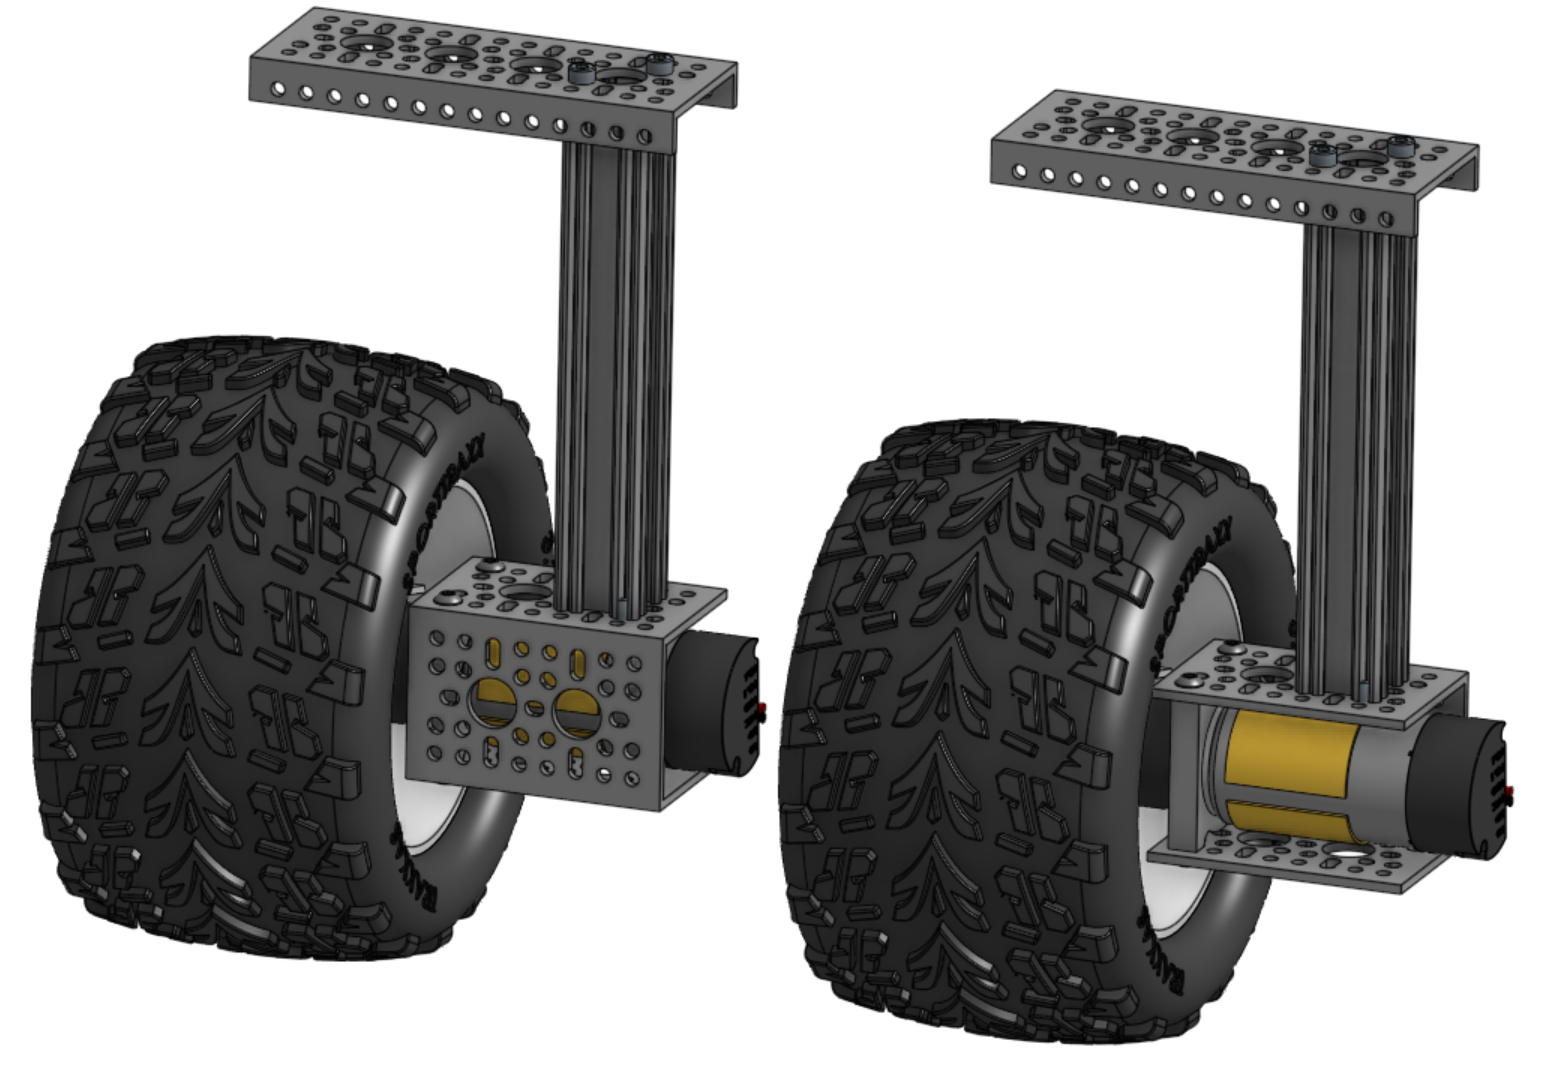
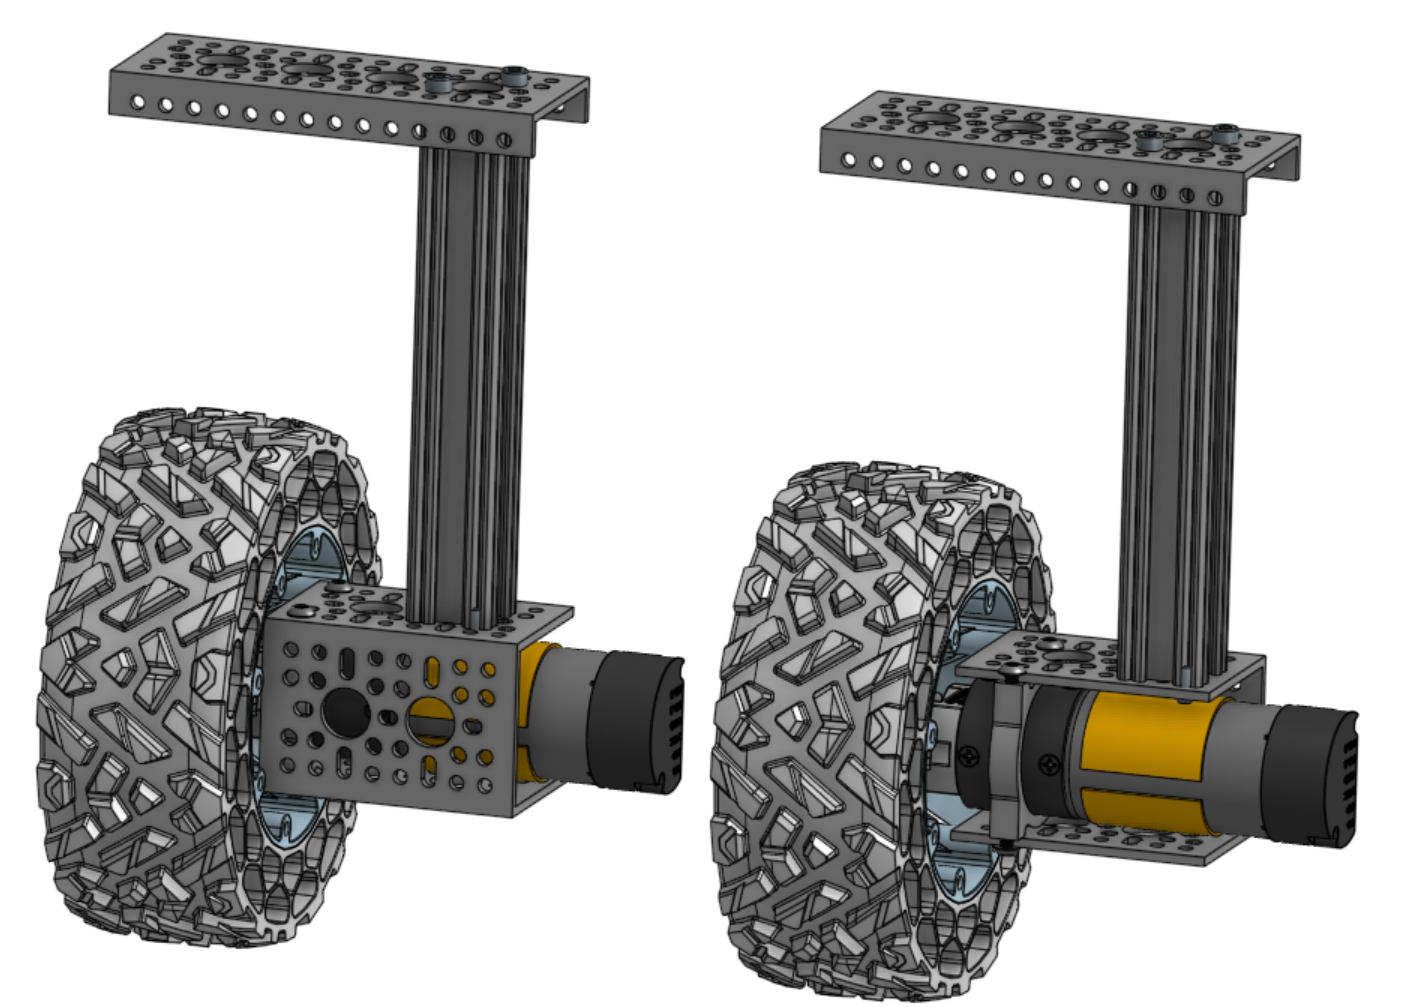
Update the build instructions to default to the wasteland wheels, update screws

diff --git a/mechanical/wheel_assembly/README.md b/mechanical/wheel_assembly/README.md
@@ -2,34 +2,18 @@
 
 The wheel assembly attaches the wheels to the motors and mounts the motors to the rest of the rocker-bogie suspension system that makes up the robot chassis. These are relatively simple to assemble.
 
-![Wheels](images/wheels.png)
+<img src="images/wheels.png" width=900/>
 
-## Features
+## [DollarHobbyz Traxxas Wheels only] Drilling the wheels
 
-* The flexible wheels allow for high traction as they deform around objects, improving climbing performance
-* Drive motors chosen to handle the high torque that the system sees, achieving both speed and climbing performance
+If you bought the DollarHobbyz Wheels, you will need to drill some holes through the plastic to allow attaching them to the hubs that fit onto the motor axes. If you have the smaller or bigger Wasteland Wheels from GoBilda, you can skip this step.
 
-### Mechanical Interface/Attachments to Rover
+The wheel is normally meant to be mounted using one bolt through the middle of the rim. This will not work well in our case as the rover sees very high torque at the wheel and the one-bolt system would be difficult to attach to any part of our system without the wheel slipping. To attach more firmly, we will drill two holes on either side of the original hole where we will mount the motor hub clamp
 
-* The 4 corner assemblies connect directly to the servo blocks on the rocker-bogies.
-* The 2 middle drive wheels attach directly to the rocker bogie
+Drill at least 2 holes in the wheels such that they can be mounted to the [Hyper Hub](https://www.gobilda.com/1310-series-hyper-hub-8mm-rex-bore/) that attaches to the motor shaft. You'll want to make sure the holes you drill are centered, otherwise the wheel will wobble while driving. Once you've found where to drill the holes, consider using a center punch or small drill bit first before drilling to ensure your drill bit doesn't start 'wandering' before it locks into position. The distance from each hole center to the center of the wheel is  
+$$\sqrt(8^2 + 8^2) \approx 11.3mm$$
 
-## Machining/Fabrication
-
-**NOTE:** While the following approach is valid for v2, it is not ideal as it requires drilling. There may be better ways to attach to these wheels (or other wheels) without drilling. The only requirement is that the middle of the corner wheels aligns with the axis of rotation of the servo output shaft.
-
-**NOTE**: These instructions are a work in progress. Please ask for assistance on Slack.
-
-
-| item                              | ref | qty |                                                                 img |
-| --------------------------------- | --- | --- | ------------------------------------------------------------------: |
-| wheels                            | S30 | 6   | <img src="../../images/components/structural/S30.png" height="100"> |
-| hand drill or drill press         | D3  |     |       <img src="../../images/components/tools/D3.png" height="100"> |
-| center punch or starter drill bit | D7  |     |       <img src="../../images/components/tools/D7.png" height="100"> |
-
-> The wheel is normally meant to be mounted using one bolt through the middle of the rim. This will not work well in our case as the rover sees very high torque at the wheel and the one-bolt system would be difficult to attach to any part of our system without the wheel slipping. To attach more firmly, we will drill two holes on either side of the original hole where we will mount the motor hub clamp as shown in Figure 1
-
-Drill at least 2 holes in the wheels such that they can be mounted to the [Sonic Hub](https://www.gobilda.com/1309-series-sonic-hub-8mm-rex-bore/) that attaches to the motor shaft. 
+<img src="https://cdn11.bigcommerce.com/s-x56mtydx1w/images/stencil/original/products/1228/11873/1310-0016-4008-Schematic__25024.1715800139.png?c=1" height=500>
 
 ## Assembly
 
@@ -47,8 +31,9 @@ Attach the clamping mount and REX bore hub to the motor. We will adjust their po
 
 The result excluding wiring should look as follows:
 
-| ![corner assembly](images/corner_side.png) | ![corner mirroring](images/corner_mirror.png) |
-| ------------------------------------------ | --------------------------------------------- |
+| side view without wiring                       | one of two pairs of corner assemblies            |
+| ---------------------------------------------- | ------------------------------------------------ |
+| <img src="images/corner_side.png" height=400/> | <img src="images/corner_mirror.png" height=400/> |
 
 Note that the sides of the rover are mirrored and so you'll be building 2 pairs of similar but not exactly the same subassemblies, as shown in the right image above.
 

diff --git a/parts_list/extra_parts.md b/parts_list/extra_parts.md
@@ -71,15 +71,15 @@ You will want threadlocker for several screws so that they don't unscrew themsel
 ## Electrical
 
 * Voltage Regulators:
-  * **1 X** 5V Regulator: [Pololu] (https://www.pololu.com/product/2881)
+  * **1 X** 5V Regulator: [Pololu](https://www.pololu.com/product/2881)
   * **1 X** 12V Regulator: [Pololu](https://www.pololu.com/product/2855)
 * **1 X** PCA9685 corner: [Mouser](https://www.mouser.com/ProductDetail/Adafruit/815?qs=GURawfaeGuCGKbWyy9179Q%3D%3D)
 * **3 X** Roboclaw 2x7A Motor Controller [Basic Micro](https://www.basicmicro.com/Roboclaw-2x7A-Motor-Controller_p_55.html)
 * **1 X** Power Measurement Unit INA260: Sold out on DigiKey, possible replacements are on [Adafruit](https://www.adafruit.com/product/4226?gclid=CjwKCAjw5dqgBhBNEiwA7PryaLOm_zC9GhlzRH1NwN4bSRwDg84sIhSh3LEqTOrIvQ3j_kRBscTAYhoCBOQQAvD_BwE)
 * **1 X** PCA9685 corner motor driver [Mouser](https://www.mouser.com/ProductDetail/Adafruit/815?qs=GURawfaeGuCGKbWyy9179Q%3D%3D)
-* DC power meter: [Amazon](https://www.amazon.com/gp/product/B017FSED9I/). This LCD display reads out current, voltage, power, and energy, and can be put on the back where the rectangular hole is in the laser cut cover. 
+* DC power meter: [Amazon](https://www.amazon.com/gp/product/B017FSED9I/). This LCD display reads out current, voltage, power, and energy, and can be put on the back where the rectangular hole is in the laser cut cover.
 * batteries: many options available here. We recommend getting LiPo batteries. You'll need a battery that can provide over 14V(*), so a 4s battery works well. You can get batteries with various mAh ratings (how many milliAmperes the battery can output for 1 hour). We recommend any option over 4000mAh. Higher capacity comes at a higher cost. You can also get more than one battery and swap them out. The rover can carry them as well.
-  * Zeee sells many options [on Amazon](https://www.amazon.com/stores/page/25B7018D-26CC-4E43-BC6D-EFAF737D8F5E?ingress=2&visitId=1b4115fa-2240-424d-a0e6-a466830819ce&ref_=ast_bln) 
+  * Zeee sells many options [on Amazon](https://www.amazon.com/stores/page/25B7018D-26CC-4E43-BC6D-EFAF737D8F5E?ingress=2&visitId=1b4115fa-2240-424d-a0e6-a466830819ce&ref_=ast_bln)
   * You'll also need a charger for the battery. Make sure it can support the battery you bought. For the Zeee options, [this model from Amazon](https://www.amazon.com/Hobby-Fans-Professional-Balance-Discharger/dp/B09XC91BWJ/ref=sr_1_6?keywords=LiPo+charger&qid=1690484744&sr=8-6) will work.
   * Consider getting a fireproof battery bag. LiPo batteries are extremely flammable/explosive and a fire caused by a battery is extremely difficult to put out.
   * You'll also need a way to connect your battery to the PCB via a XT30 connector (MH-FC) which depends on the battery you get. Often these come with the charger for the battery
@@ -90,7 +90,11 @@ You will want threadlocker for several screws so that they don't unscrew themsel
 ## Different wheels
 
 * The wheels we previously included as the default from [DollarHobbyz](https://www.dollarhobbyz.com/collections/all/products/traxxas-2-talon-tires-gemini-black-chrome-wheels-5374x) are $34.95 per pair of two for a total of $104.85 (excl. shipping), saving ~$135 compared to the default Wasteland wheels. They are a perfectly fine choice but require some drilling to fit to the motor hubs.
-* Gobilda also sells a larger version of the [Wasteland Wheel at 192mm diameter](https://www.gobilda.com/wasteland-wheel-192mm-diameter-72mm-width/). This adds $90 total compared to the default Wasteland wheels. No drilling is required.
+* Gobilda also sells a larger version of the [Wasteland Wheel at 192mm diameter](https://www.gobilda.com/wasteland-wheel-192mm-diameter-72mm-width/). This adds $90 total compared to the default Wasteland wheels. No drilling is required. Those wheels are bigger and wider and look like this:
+
+| smaller Wasteland wheels | bigger Wasteland wheels |
+| --- | --- |
+| <img src="smaller_wasteland.png" width=400/> | <img src="bigger_wasteland.png" width=400/> |
 
 There is a software parameter where you can easily modify the size of the wheels to account for speed differences.
 

diff --git a/parts_list/screws.md b/parts_list/screws.md
@@ -1,13 +1,14 @@
-## Screws tally
+# Screws tally
 
 All of the below are included in the [parts list](parts_list/README.md). This document is for maintenance only.
 
-### M4
+## M4
 
 | subassembly  | nb  | length           | type   | purpose                        | multiplier | total |
 | ------------ | --- | ---------------- | ------ | ------------------------------ | ---------- | ----- |
 | wheel        | 4   | 10               | either | motor - channel                | 6          | 24    |
 | wheel        | 3   | 10               | button | bracket - vert. extrusion      | 6          | 18    |
+| wheel        | 3   | **10** or 12     | socket | wheel - motor axis clamp       | 6          | 18    |
 | corner       | 3   | 10               | button | vert. extrusion - low channel  | 4          | 12    |
 | corner       | 3   | 10               | button | low channel - servo shaft      | 4          | 12    |
 | corner       | 3   | 10               | either | servo bracket - rocker         | 4          | 12    |
@@ -42,7 +43,7 @@ Total per category and length:
 | button | [10](https://www.gobilda.com/2802-series-zinc-plated-steel-button-head-screw-m4-x-0-7mm-10mm-length-25-pack/) | 70 (+48)     | 3                     |
 | button | [16](https://www.gobilda.com/2802-series-zinc-plated-steel-button-head-screw-m4-x-0-7mm-16mm-length-25-pack/) | 34           | 2                     |
 | socket | [8](https://www.gobilda.com/2800-series-zinc-plated-steel-socket-head-screw-m4-x-0-7mm-8mm-length-25-pack/)   | 30 (+8)      | 2                     |
-| socket | [10](https://www.gobilda.com/2800-series-zinc-plated-steel-socket-head-screw-m4-x-0-7mm-10mm-length-25-pack/) | 24 (+48)     | 3                     |
+| socket | [10](https://www.gobilda.com/2800-series-zinc-plated-steel-socket-head-screw-m4-x-0-7mm-10mm-length-25-pack/) | 42 (+48)     | 4                     |
 | socket | [12](https://www.gobilda.com/2800-series-zinc-plated-steel-socket-head-screw-m4-x-0-7mm-12mm-length-25-pack/) | 20           | 1                     |
 | socket | [16](https://www.gobilda.com/2800-series-zinc-plated-steel-socket-head-screw-m4-x-0-7mm-16mm-length-25-pack/) | 28 (+8)      | 2                     |
 | socket | [20](https://www.gobilda.com/2800-series-zinc-plated-steel-socket-head-screw-m4-x-0-7mm-20mm-length-25-pack/) | 12           | 1                     |
